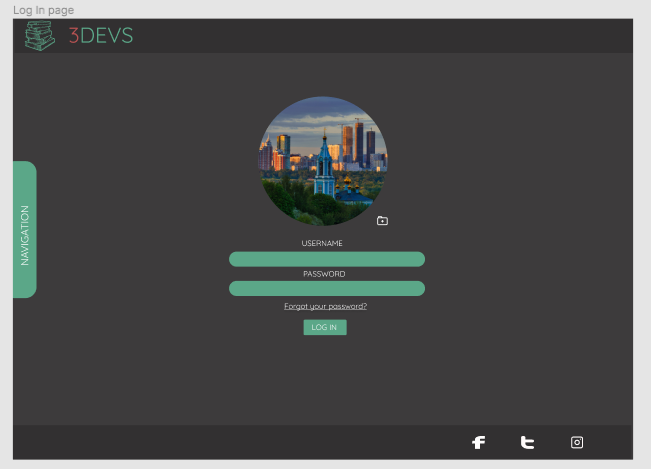
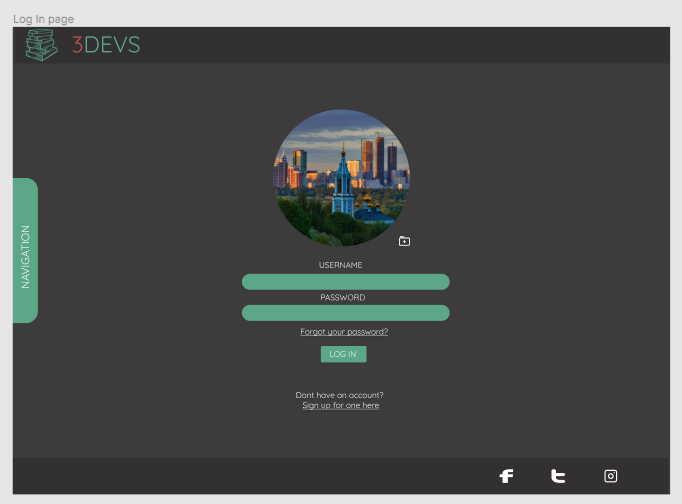
updated designdocs

diff --git a/documentation/designdocs/design.md b/documentation/designdocs/design.md
@@ -1,7 +1,26 @@
+28/10
+
 added screenshots of the mock up and overall layout of design works from figma
 
 Project can be viewed below
 https://www.figma.com/file/XIUfEV7DlJHJCxwN8BAz5U/Library?node-id=0%3A1
 
 
-Prototype is up (still in progress) will confirm if its viewable seperately and share link
+Prototype is up (still in progress) will confirm if its viewable seperately and share link(complete)
+
+
+29/10
+
+added lost password, and email confirmation pages
+
+modified signup page to include email adress field
+
+modified log in page to include a link to sign in page for non account holders
+
+
+updated prototype to imclude all click activity as i can anticipate
+i am looking into the carousel behaviour for the landing page main area
+
+prototype can be viewed here:
+
+https://www.figma.com/proto/XIUfEV7DlJHJCxwN8BAz5U/Library?node-id=45%3A233&viewport=727%2C-396%2C0.13154926896095276&scaling=scale-down
